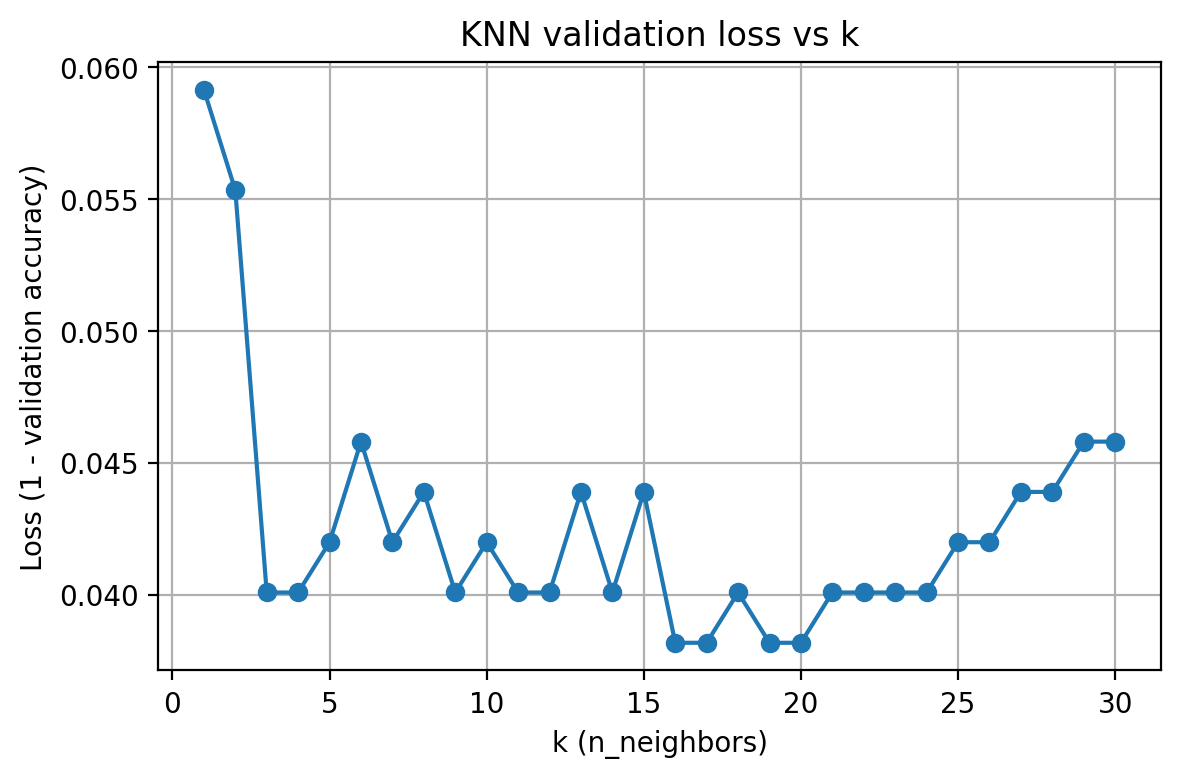
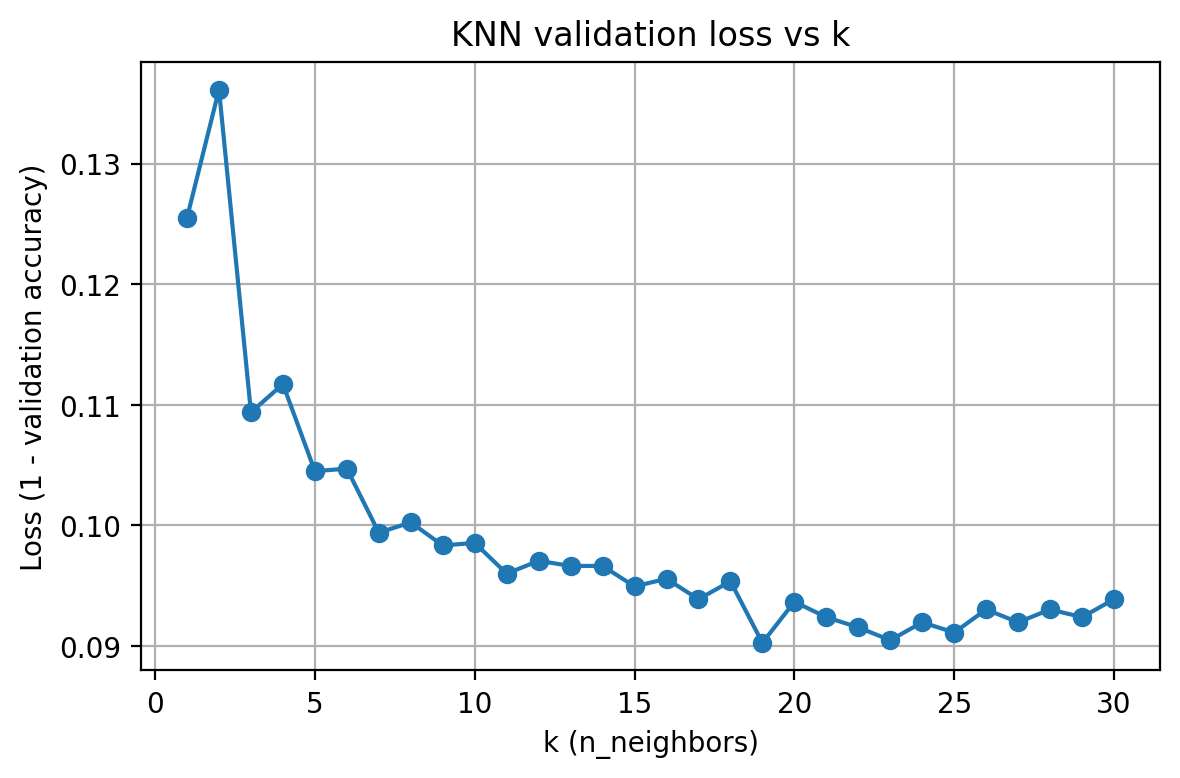
Made the code more efficient by removing the redundant fitting of the GridSearchCV and ensuring that the best hyperparameters are printed only once. Additionally, I added comments to clarify the purpose of each section of the code.

diff --git a/src/models/pneumonia_baseline.py b/src/models/pneumonia_baseline.py
@@ -31,13 +31,13 @@ print("---------------------- Determining hyperparameters for KNN: -------------
 model = KNeighborsClassifier()
 k_values = list(range(1, 31))  # From 1 to 30
 hyperparameter_space = {
-	'n_neighbors': k_values,
-	'weights': ['uniform', 'distance'],
-	'metric': ['euclidean', 'manhattan', 'minkowski']
+    'knn__n_neighbors': k_values,
+    'knn__weights': ['uniform', 'distance'],
+    'knn__metric': ['euclidean', 'manhattan', 'minkowski']
 }
 
 pipe = Pipeline([
-    ('pca', PCA(n_components=50)),
+    ('pca', PCA(n_components=50)), # Reduce dimensionality to 50 components instead of 784
     ('knn', KNeighborsClassifier())
 ])
 
@@ -52,7 +52,7 @@ print("Mean CV accuracy of best hyperparameters: ", gs.best_score_)
 # ---------------------- LOSS-curve (1 - validation accuracy) vs k ----------------------
 results_df = pd.DataFrame(gs.cv_results_)
 
-# We use the best weights/metrics from GridSearch, we only vary k
+# Filter results for the best weights and metric
 best_weights = gs.best_params_['knn__weights']
 best_metric  = gs.best_params_['knn__metric']
 